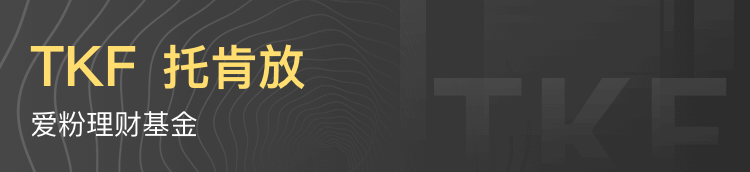
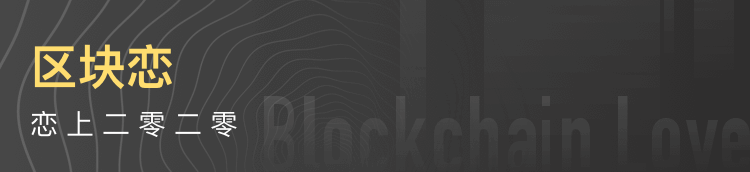
添加审核中、收益中、已结束四种状态接口+首页基金入口+基金资产记录+更换图片

Changed region(s): [[0.0307, 0.2616, 0.4293, 0.5233], [0.0307, 0.6395, 0.3373, 0.814]]

diff --git a/src/components/html/MobileAssetRechargeAndWithdrawRecord.html b/src/components/html/MobileAssetRechargeAndWithdrawRecord.html
@@ -18,6 +18,9 @@
     <div class="header-title-item" :class="openType==3? 'header-title-item-active':''" @click="changeOpenType(3)">
       奖励
     </div>
+    <div class="header-title-item" :class="openType==7? 'header-title-item-active':''" @click="changeOpenType(7)">
+      基金
+    </div>
   </div>
   <Loading v-if="loading" class="min-height-all recharge-record-loading-container"/>
   <!--充币记录内容-->
@@ -238,6 +241,58 @@
       <!--</div>-->
       <!--      @click="toRewardRecord(item)"-->
       <div v-for="(item,index) in ActivityRecord" :key="item.id" class="withdraw-item" @click="toRewardDetailPath(item)">
+        <div>
+          <div class="withdraw-item-title">{{item.currency== 'USDT2'  || item.currency== 'USDT3' ? 'USDT' :item.currency}}
+            <!--          <span class="grcActivity">(量化活动)</span>-->
+          </div>
+
+          <div class="withdraw-item-time">{{$globalFunc.formatDateUitl(item.updatedAt,'YYYY-MM-DD hh:mm:ss')}}</div>
+          <div class="withdraw-item-num">
+            <!--<span class="withdraw-item-num-title">数量</span>-->
+            <span class="withdraw-item-num-detail">{{toFixed(item.amount,2)}}</span>
+          </div>
+          <!--<div class="withdraw-item-right"></div>-->
+        </div>
+        <div class="withdraw-item-state">{{item.descritption}}</div>
+        <!--        <div v-if="item.status === 'WAITING_FOR_APPROVAL'" class="withdraw-item-state">待审核</div>-->
+        <!--        <div v-if="item.status === 'WAITING_FOR_WALLET'" class="withdraw-item-state">待处理</div>-->
+        <!--        <div v-if="item.status === 'DENIED'" class="withdraw-item-state">被驳回</div>-->
+        <!--        <div v-if="item.status === 'PROCESSING'" class="withdraw-item-state">处理中</div>-->
+        <!--        <div v-if="item.status === 'FAILED'" class="withdraw-item-state">失败</div>-->
+        <!--        <div v-if="item.status === 'CANCELLED'" class="withdraw-item-state">已撤销</div>-->
+        <!--        <div v-if="item.status === 'DONE'" class="withdraw-item-state">已汇出</div>-->
+      </div>
+
+      <div v-if="ajaxWithdrawFlag" class="recharge-list-loading">
+        <Loading/>
+      </div>
+
+      <div class="withdraw-list-no-more" v-if="ActivityRecord.length !== 0 && isShowGetMoreWithdraw === false">已经全部加载完毕</div>
+    </div>
+    <div v-if="ActivityRecord.length !== 0 && isShowGetMoreWithdraw === true && !ajaxWithdrawFlag" class="withdraw-list-btn-get-more" @click="getRewardRecord()">加载更多</div>
+  </div>
+
+  <!--理财记录内容-->
+  <div v-show="!loading && openType==7" class="container-box">
+    <!--没有理财记录的样式-->
+    <div v-if="fundListLists.length === 0" class="no-item-box">
+      <img class="no-item-box-item" src="../../assets/no-record-icon-H5@2x.png" alt="">
+      <div class="no-item-box-text">暂无基金记录</div>
+    </div>
+    <!--有理财记录的样子-->
+    <div v-if="fundListLists.length !== 0" class="withdraw-list">
+      <!--<div class="withdraw-item">-->
+      <!--<div class="withdraw-item-title">BDB</div>-->
+      <!--<div class="withdraw-item-time">1-12 12:12:20</div>-->
+      <!--<div class="withdraw-item-num">-->
+      <!--<span class="withdraw-item-num-title">数量</span>-->
+      <!--<span class="withdraw-item-num-detail">1.23232323</span>-->
+      <!--</div>-->
+      <!--<div class="withdraw-item-state">充币中(2/6)</div>-->
+      <!--<div class="withdraw-item-right"></div>-->
+      <!--</div>-->
+      <!--      @click="toRewardRecord(item)"-->
+      <div v-for="(item,index) in fundListLists" :key="item.id" class="withdraw-item" @click="tofundDetailsPath(item)">
         <div>
           <div class="withdraw-item-title">{{item.currency== 'USDT2'  || item.currency== 'USDT3' ? 'USDT' :item.currency}}
             <!--          <span class="grcActivity">(量化活动)</span>-->

diff --git a/src/components/fundProducts/js/MobileFundAssets.js b/src/components/fundProducts/js/MobileFundAssets.js
@@ -8,10 +8,20 @@ root.name = 'MobileFundAssets'
 root.data = function () {
   return {
     selectedType: 1,  // 1:申购中  2：收益中  3：已结束
+    // 申购中
+    purchaseList:[],
+    // 收益中
+    incomeList:[],
+    // 已结束
+    hasEndedList:[]
+
   }
 }
 /*------------------------------ 生命周期 -------------------------------*/
-root.created = function () {}
+root.created = function () {
+  // 申购中
+  // this.getPurchase()
+}
 root.mounted = function () {}
 root.beforeDestroy = function () {}
 /*------------------------------ 计算 -------------------------------*/
@@ -22,13 +32,89 @@ root.watch = {}
 root.methods = {}
 
 // 跳转基金详情页
-root.methods.gotoDetails = function () {
-  this.$router.push({name:'mobileFundDetails'})
+root.methods.gotoDetails = function (type) {
+  this.$router.push({name:'mobileFundDetails',params:{selectedType: type}})
 }
-
-// 切换产品
+// 切换理财状态
 root.methods.getAssetStatus = function (type) {
   this.selectedType = type
+  // 申购中
+  if(type === 1){
+    this.getPurchase()
+    return
+  }
+  // 收益中
+  if(type === 2){
+    this.getIncome()
+    return
+  }
+  // 已结束
+  if(type === 3){
+    this.getHasEnded()
+    return
+  }
+}
+
+// 申购中
+root.methods.getPurchase = function () {
+  this.$http.send('TKF_FINANCIAL_RECORDS', {
+    bind: this,
+    query:{
+      status: 'APPLY',
+    },
+    callBack: this.re_getPurchase,
+    errorHandler:this.error_getPurchase
+  })
+}
+root.methods.re_getPurchase = function (data) {
+  typeof(data) == 'string' && (data = JSON.parse(data));
+  if(!data)return
+  this.purchaseList = data.dataMap.list
 
 }
+root.methods.error_getPurchase = function (err) {
+  console.log('err=====',err)
+}
+
+// 收益中
+root.methods.getIncome = function (){
+  this.$http.send('TKF_FINANCIAL_RECORDS',{
+    bind:this,
+    query:{
+      status: 'PROCESSING',
+    },
+    callBack:this.re_getIncome,
+    errorHandler:this.error_getIncome
+  })
+}
+root.methods.re_getIncome = function (data){
+  typeof(data) == 'string' && (data = JSON.parse(data))
+  if(!data)return
+  this.incomeList = data.dataMap.list
+}
+root.methods.error_getIncome = function (err){
+  console.warn('err====',err)
+}
+
+// 已结束
+root.methods.getHasEnded = function () {
+  this.$http.send('TKF_FINANCIAL_RECORDS',{
+    bind:this,
+    query:{
+      status: 'END',
+    },
+    callBack:this.re_getHasEnded,
+    errorHandler:this.error_getHasEnded
+  })
+}
+root.methods.re_getHasEnded = function (data){
+  typeof (data) == 'string' && (data= JSON.parse(data))
+  if(!data)return
+  this.hasEndedList = data.dataMap.list
+}
+root.methods.error_getHasEnded = function (err) {
+
+}
+
+
 export default root

diff --git a/src/components/js/MobileAssetRechargeAndWithdrawRecord.js b/src/components/js/MobileAssetRechargeAndWithdrawRecord.js
@@ -41,6 +41,10 @@ root.data = function () {
     ActivityRecord:[], // 挖矿奖励
     EventRewards:[], // 活动奖励
 
+    fundListLists:[], //基金奖励
+
+
+
     // 获取多少条消息
     capitalTransferLimit: 10,
     //是否Transfer获取ajax结果 默认为false
@@ -643,6 +647,45 @@ root.methods.error_getInternalTransferList = function (err) {
 }
 
 
+// 获取理财记录
+root.methods.getFundList = function () {
+  if(this.ajaxInternalTransferFlag === true){
+    return;
+  }
+  this.ajaxInternalTransferFlag = true
+
+  this.$http.send("", {
+    bind: this,
+    query:{
+    },
+    callBack: this.re_getFundList,
+    errorHandler: this.error_getFundList
+  })
+}
+// 获取理财记录返回，类型为{}
+root.methods.re_getFundList = function (data) {
+  this.ajaxInternalTransferFlag = false
+  typeof data === 'string' && (data = JSON.parse(data))
+  if (!data) return
+  this.fundListLists = data.dataMap
+
+  if (this.fundListLists.length < this.fundListLists){
+    this.isShowGetMoreInternalTransfer = false
+  } else {
+    this.internalTransferLimit += 10;
+  }
+
+  this.loading = false
+}
+// 获取理财记录出错
+root.methods.error_getFundList = function (err) {
+  console.warn("转账获取记录出错！", err)
+  this.ajaxInternalTransferFlag = true
+  if(this.ajaxInternalTransferFlag === true){
+    this.loading = false
+  }
+}
+
 // 点击跳转充值详情页
 root.methods.toRechargeDetailPath = function (type) {
   console.log(123123123,type)
@@ -678,6 +721,13 @@ root.methods.toInternalTransferDetailPath = function (item) {
   this.$store.commit('changeMobileRechargeRecordData',item)
   this.$router.push("/index/mobileAsset/mobileAssetInternalTransferRecordDetail/")
 }
+// 点击跳进基金详情页
+root.methods.tofundDetailsPath = function (item) {
+  this.$store.commit('changeMobileRechargeRecordData',item)
+  this.$router.push("/index/mobileAsset/mobileAssetInternalTransferRecordDetail/")
+}
+
+
 // 关闭pop提示
 root.methods.popClose = function () {
   this.popOpen = false

diff --git a/src/components/fundProducts/html/MobileFundAssets.html b/src/components/fundProducts/html/MobileFundAssets.html
@@ -33,7 +33,7 @@
       </div>
 
       <!--申购中-->
-      <div class="fund-asset-status-containter flex" v-if="selectedType === 1" @click="gotoDetails">
+      <div class="fund-asset-status-containter flex" v-if="selectedType === 1" @click="gotoDetails(1)" v-for="(item,index) in purchaseList" :key="index">
         <div class="fund-asset-status-containter-left">
           <div class="fund-asset-status-nper">托肯放之拔头筹-3期</div>
           <div class="fund-asset-status-acount">
@@ -48,7 +48,7 @@
       </div>
 
       <!--收益中-->
-      <div class="fund-asset-status-containter flex" v-if="selectedType === 2">
+      <div class="fund-asset-status-containter flex" v-if="selectedType === 2" @click="gotoDetails(2)" v-for="(item,index) in incomeList" :key="index">
         <div class="fund-asset-status-containter-left">
           <div class="fund-asset-status-nper">托肯放之拔头筹-2期</div>
           <div class="fund-asset-status-acount">
@@ -63,7 +63,7 @@
       </div>
 
       <!--已结束-->
-      <div class="fund-asset-status-containter flex" v-if="selectedType === 3">
+      <div class="fund-asset-status-containter flex" v-if="selectedType === 3" @click="gotoDetails(3)" v-for="(item,index) in hasEndedList" :key="index">
         <div class="fund-asset-status-containter-left">
           <div class="fund-asset-status-nper">托肯放之拔头筹-1期</div>
           <div class="fund-asset-status-acount">

diff --git a/src/components/html/NewH5HomePage.html b/src/components/html/NewH5HomePage.html
@@ -99,6 +99,11 @@
 <!--          <img class="homepage-icon-body-item-img" src="../../assets/H5img/trade.png" alt="">-->
 <!--          <span class="homepage-icon-body-item-text">交易</span>-->
 <!--        </div>-->
+
+        <router-link to="/index/mobileFinancialFund/mobileFundProducts" class="homepage-icon-body-item">
+          <img class="homepage-icon-body-item-img" src="../../assets/H5img/fund_icon.png" alt="">
+          <span class="homepage-icon-body-item-text">基金</span>
+        </router-link>
         <div @click="gotoRecommend" class="homepage-icon-body-item">
 <!--          <img class="homepage-icon-body-item-img" src="../../assets/H5img/H5VIP_icon@2x.png" alt="">-->
           <img class="homepage-icon-body-item-img" src="../../assets/H5img/recommend_icon.png" alt="">
@@ -113,10 +118,7 @@
           <img class="homepage-icon-body-item-img" src="../../assets/H5img/trade_mining.png" alt="">
           <span class="homepage-icon-body-item-text">交易挖矿</span>
         </div>
-        <router-link to="/index/mobileNotice" class="homepage-icon-body-item">
-          <img class="homepage-icon-body-item-img" src="../../assets/H5img/help_center.png" alt="">
-          <span class="homepage-icon-body-item-text">公告</span>
-        </router-link>
+
 
       </div>
     </div>

diff --git a/src/components/fundProducts/html/MobileFundDetails.html b/src/components/fundProducts/html/MobileFundDetails.html
@@ -14,12 +14,15 @@
     <!--标题及状态-->
     <div class="mobile-fund-content-title flex">
       <div>托肯放只拔头筹-1期</div>
-      <div>申购中</div>
+      <div v-if="$route.params.selectedType == 1">申购中</div>
+      <div v-if="$route.params.selectedType == 2">收益中</div>
+      <div v-if="$route.params.selectedType == 3">已结束</div>
+
     </div>
 
     <div class="mobile-fund-content-content">
       <!--已结束-->
-      <div class="mobile-fund-income" v-if="true">本期收益（USDT）
+      <div class="mobile-fund-income" v-if="$route.params.selectedType == 3">本期收益（USDT）
         <div class="mobile-fund-income-number">700,123.25</div>
       </div>
       <!--中间内容-->
@@ -43,7 +46,7 @@
           <!--中奖号码-->
           <div class="mobile-fund-text flex">
             <div class="text">中奖号码</div>
-            <div class="content">4</div>
+            <div class="content">{{$route.params.selectedType == 1 ? '未抽取':'4'}}</div>
           </div>
           <!--抽签号码-->
           <div class="mobile-fund-text flex">

diff --git a/src/components/fundProducts/html/MobileFundBuy.html b/src/components/fundProducts/html/MobileFundBuy.html
@@ -45,13 +45,13 @@
     <div class="fund-buy-section-title">策略种类</div>
     <div class="fund-buy-type-of-strategy">
       <!--每种产品一张图片-->
-      <!--拔头筹-->
+      <!--一见倾心-->
       <img class="fund-buy-type-of-strategy-img" src="../assets/fund_buy_type_of_strategy.png" alt="">
-      <!--群雄起-->
+      <!--三生三生-->
       <!--<img class="fund-buy-type-of-strategy-img" src="../assets/fund_buy_type_of_strategy.png" alt="">-->
-      <!--步步高-->
+      <!--风雨同路-->
       <!--<img class="fund-buy-type-of-strategy-img" src="../assets/fund_buy_type_of_strategy.png" alt="">-->
-      <!--天下同-->
+      <!--天长地久-->
       <!--<img class="fund-buy-type-of-strategy-img" src="../assets/fund_buy_type_of_strategy.png" alt="">-->
     </div>
   </div>

diff --git a/config/index.js b/config/index.js
@@ -17,7 +17,7 @@ module.exports = {
         // target: 'http://18.163.24.239:8000', //新测试环境1
         // target: 'http://18.162.188.176:8000', // 2020.03.25测试服环境
         // target: 'https://2020.highdefi.com', //新测试环境1
-        // target: 'http://10.113.8.21:8000', // 强哥电脑
+        // target: 'http://10.113.8.20:8000', // 强哥电脑
         // target: 'http://18.162.188.176:8000', //新测试环境2020
         // target: 'http://13.230.43.250:8080', //新测试环境2020.04.01
         // target: 'https://www.2020.exchange', //新测试环境2

diff --git a/src/configs/networkConfigs/RequestAddress.js b/src/configs/networkConfigs/RequestAddress.js
@@ -490,4 +490,7 @@ requestAddress.UNLOCK_ASSET_RECODE = {url: urlHead+'/asset/user/unlock/asset', m
 requestAddress.TOTAL_LOCK_REWARD = {url: urlHead+'/asset/user/total/reward', method: 'get'} // 锁仓累计
 requestAddress.LOCK_COUNT = {url: urlHead+'/asset/user/lock/count', method: 'get'} // 锁仓次数
 
+
+requestAddress.TKF_FINANCIAL_RECORDS = {url: urlHead+'/tkf/financialRecords', method: 'get'}  //理财基金状态
+
 export default requestAddress

diff --git a/src/components/fundProducts/html/MobileFinancialFund.html b/src/components/fundProducts/html/MobileFinancialFund.html
@@ -5,7 +5,7 @@
     <div class="mobile-fund-image" @click="returnNewH5homePage">
       <img src="../../LuckyDraw/assets/mobileForecastHomePage/back_icon.png" alt="" class="mobile-fund-top-img">
     </div>
-    <div class="mobile-fund-top-title">TKF</div>
+    <div class="mobile-fund-top-title">区块恋</div>
   </div>
 
   <div class="mobile-fund-title">

diff --git a/src/components/fundProducts/css/MobileFinancialFund.css b/src/components/fundProducts/css/MobileFinancialFund.css
@@ -13,8 +13,8 @@
 }
 
 .mobile-fund-image {
-  width: 0.64rem;
   position: absolute;
+  width: 0.64rem;
 }
 
 .mobile-fund-top-img {
